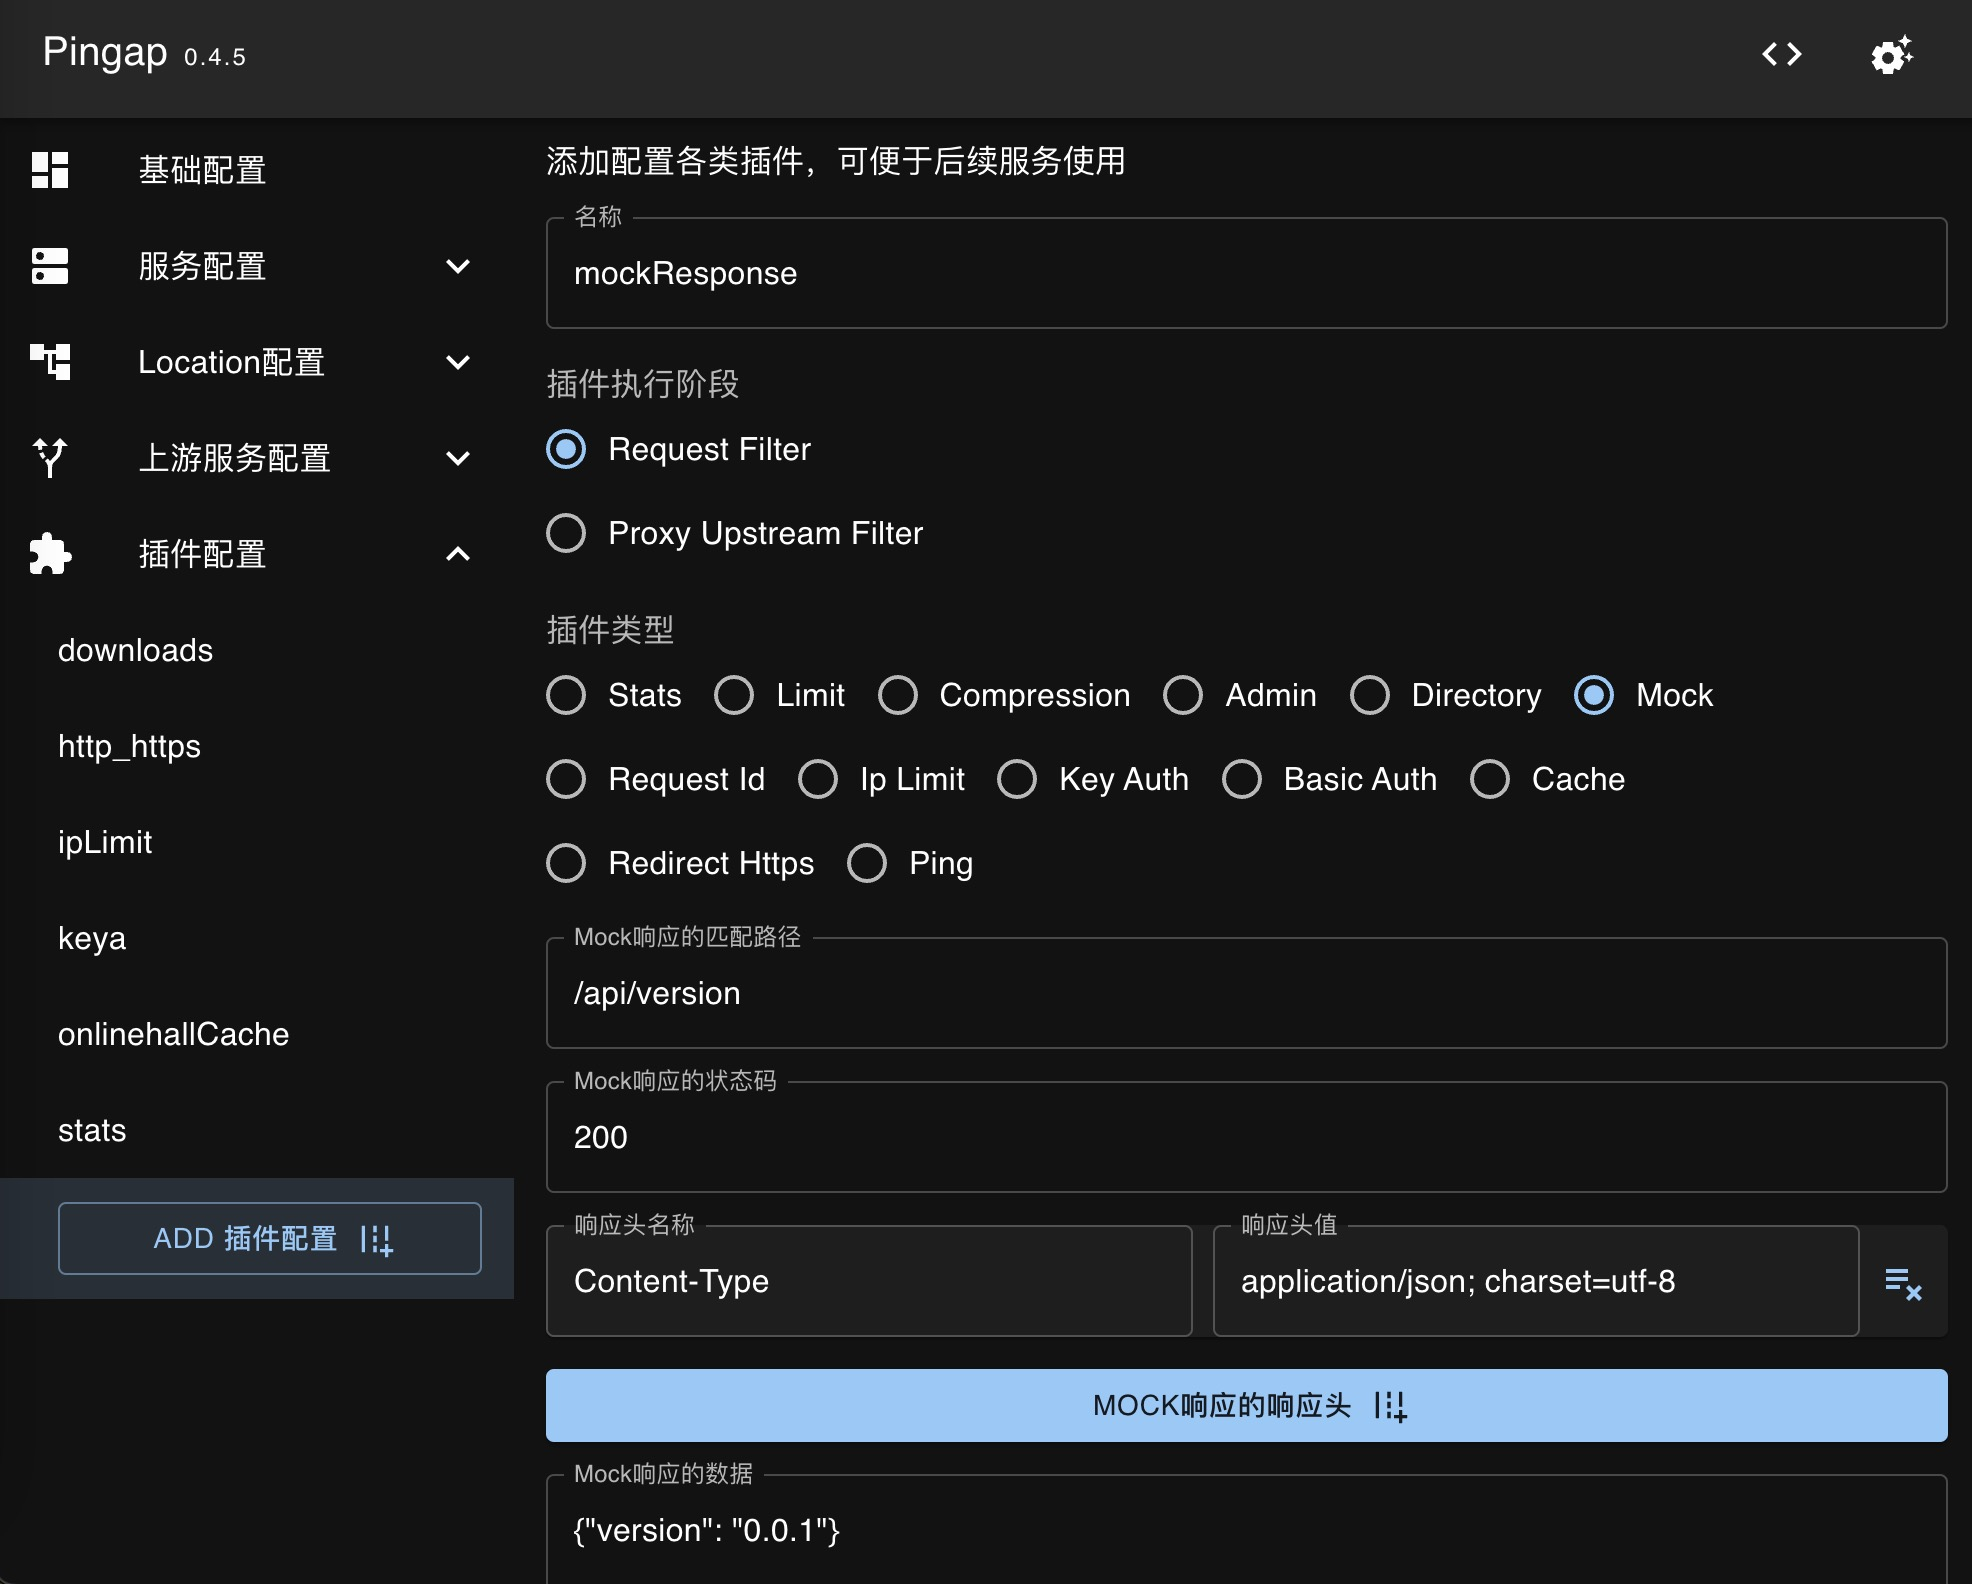
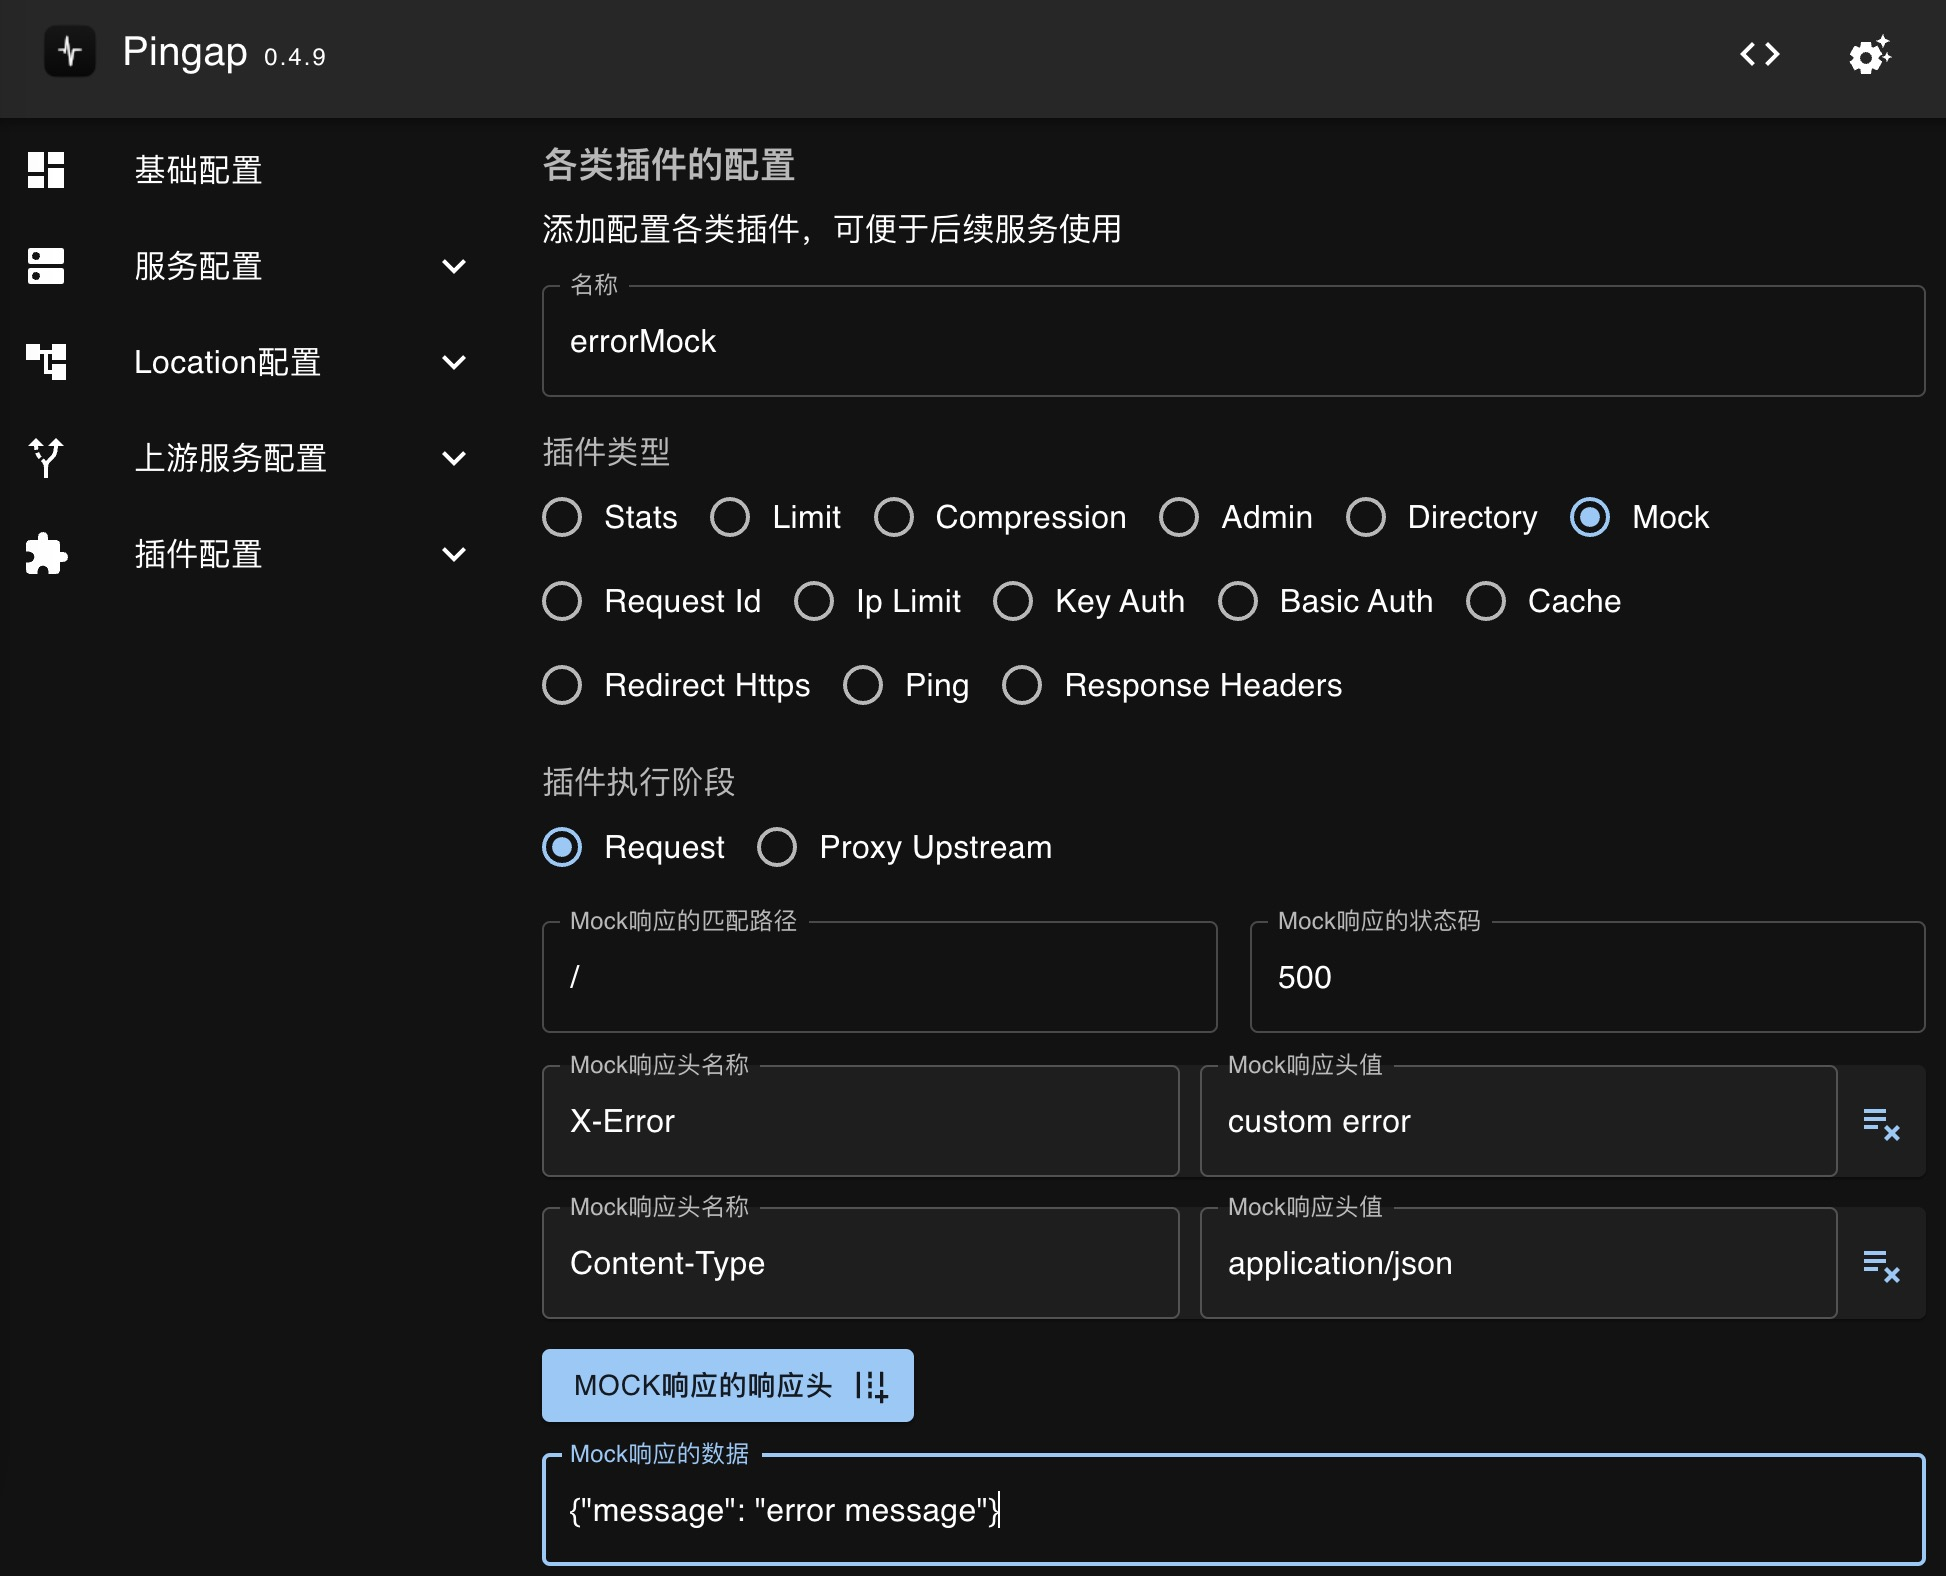
docs: update document

diff --git a/web/src/components/form-plugin.tsx b/web/src/components/form-plugin.tsx
@@ -352,7 +352,7 @@ export function FormPluginField({
           key: "type",
           label: t("form.limitMode"),
           id: "ip-limit-mode",
-          span: 6,
+          span: 12,
           options: [
             {
               label: "Allow",
@@ -367,11 +367,12 @@ export function FormPluginField({
           ],
         },
         {
-          category: "text",
+          category: "textlist",
           key: "ip_list",
           label: t("form.ipList"),
+          addLabel: t("form.ipLimitAdd"),
           id: "ip-limit-list",
-          span: 6,
+          span: 12,
         },
       );
       break;
@@ -444,6 +445,42 @@ export function FormPluginField({
         id: "ping-path",
         span: 12,
       });
+      break;
+    }
+    case PluginCategory.MOCK: {
+      fields.push(
+        {
+          category: "text",
+          key: "path",
+          label: t("form.mockPath"),
+          id: "mock-path",
+          span: 6,
+        },
+        {
+          category: "number",
+          key: "status",
+          label: t("form.mockStats"),
+          id: "mock-status",
+          span: 6,
+        },
+        {
+          category: "textlist",
+          key: "headers",
+          label: t("form.mockHeaderName"),
+          valueLabel: t("form.mockHeaderValue"),
+          id: "mock-headers",
+          span: 12,
+          divide: ":",
+          addLabel: t("form.mockHeader"),
+        },
+        {
+          category: "text",
+          key: "data",
+          label: t("form.mockData"),
+          id: "mock-data",
+          span: 12,
+        },
+      );
       break;
     }
     case PluginCategory.RESPONSE_HEADERS: {

diff --git a/web/src/i18n/zh.ts b/web/src/i18n/zh.ts
@@ -144,6 +144,7 @@ export default {
   "form.requestIdAlgo": "请求ID的生成算法",
   "form.requestIdLength": "请求ID长度",
   "form.ipList": "IP列表",
+  "form.ipLimitAdd": "添加更多的IP或IP组",
   "form.limitMode": "限制模式, 0:允许, 1:禁止",
   "form.keyAuthType": "认证key类型，0:header, 1:query",
   "form.keyAuthName": "认证key的名称",
@@ -166,5 +167,7 @@ export default {
   "form.mockPath": "Mock响应的匹配路径",
   "form.mockStats": "Mock响应的状态码",
   "form.mockHeader": "Mock响应的响应头",
+  "form.mockHeaderName": "Mock响应头名称",
+  "form.mockHeaderValue": "Mock响应头值",
   "form.mockData": "Mock响应的数据",
 };

diff --git a/web/src/i18n/en.ts b/web/src/i18n/en.ts
@@ -145,6 +145,7 @@ export default {
   "form.requestIdAlgo": "The algorithm for genenrate id",
   "form.requestIdLength": "The length of id",
   "form.ipList": "The ip list",
+  "form.ipLimitAdd": "Add more ip or ip net",
   "form.limitMode": "The limit mode, 0:allow, 1:deny",
   "form.keyAuthType": "The key auth type, 0:header, 1:query",
   "form.keyAuthName": "The key name",
@@ -167,5 +168,7 @@ export default {
   "form.mockPath": "Response Match Path",
   "form.mockStats": "Response Status",
   "form.mockHeader": "Add Response Header",
+  "form.mockHeaderName": "The mock header name",
+  "form.mockHeaderValue": "The mock header value",
   "form.mockData": "Response data",
 };

diff --git a/src/plugin/admin.rs b/src/plugin/admin.rs
@@ -121,6 +121,9 @@ impl TryFrom<&PluginConf> for AdminServeParams {
     fn try_from(value: &PluginConf) -> Result<Self> {
         let mut authorizations = vec![];
         for item in get_str_slice_conf(value, "authorizations").iter() {
+            if item.is_empty() {
+                continue;
+            }
             let _ = STANDARD.decode(item).map_err(|e| Error::Base64Decode {
                 category: PluginCategory::BasicAuth.to_string(),
                 source: e,
